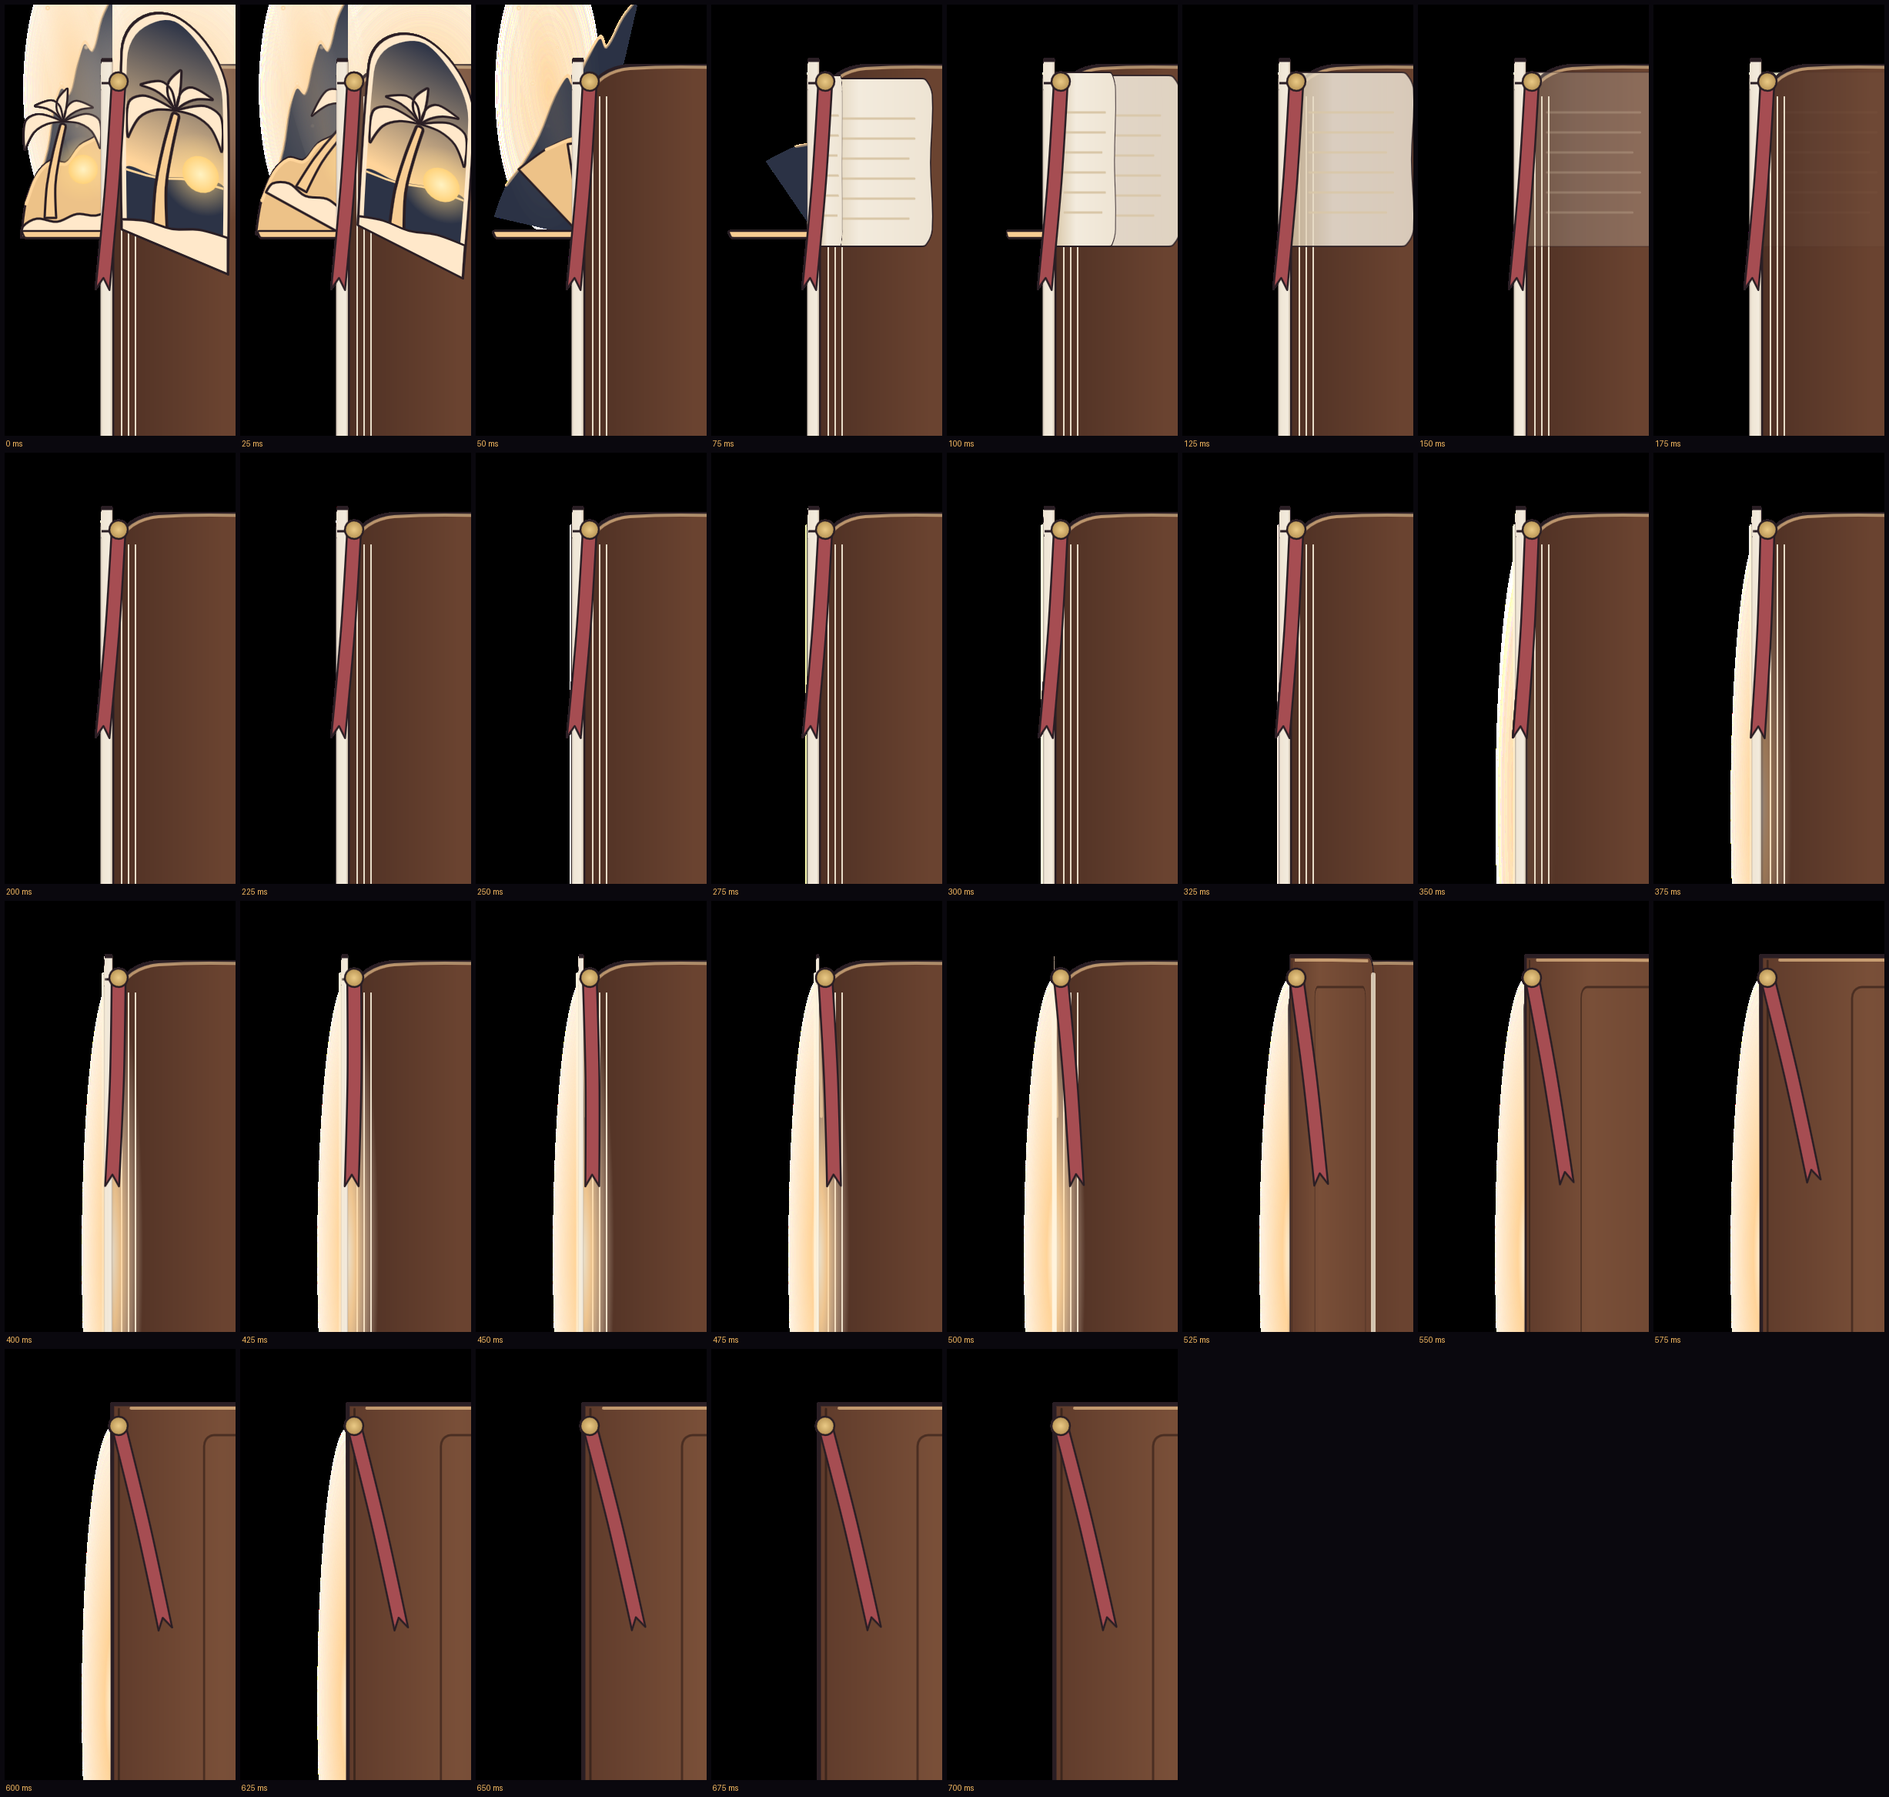
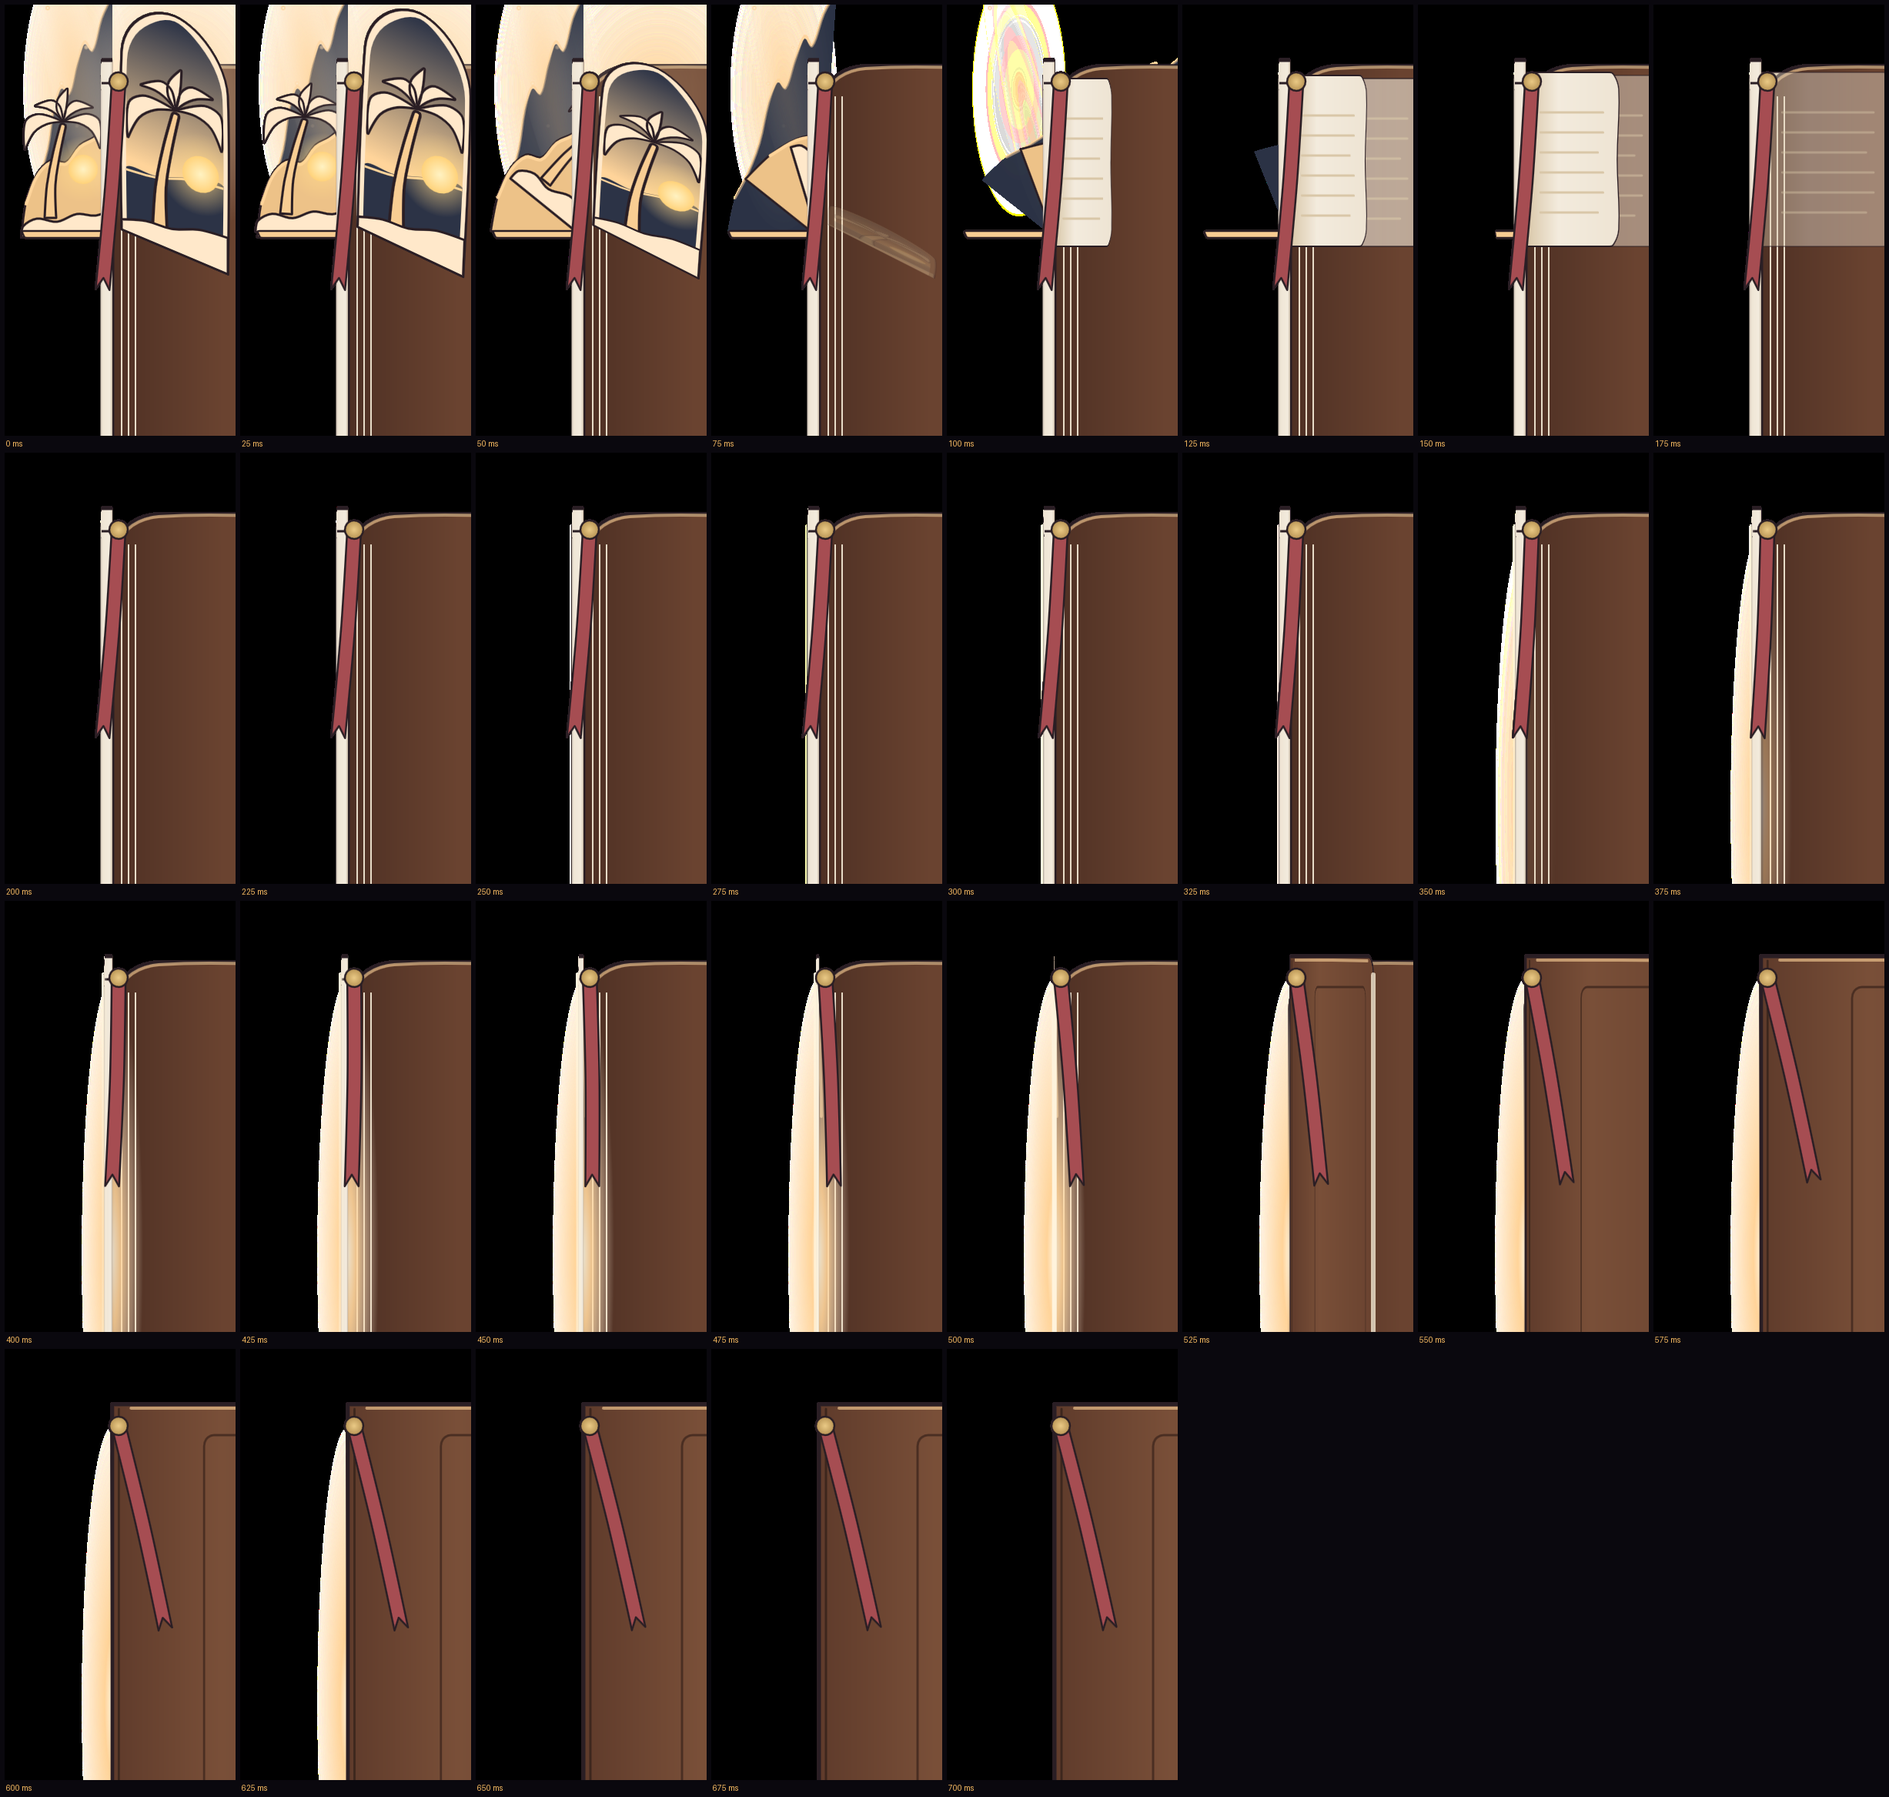
fix(rive): beat sheets evaluate Flutter Curves.easeOut Cubic(0,0,0.58,1) (final review)
The beats' `out` ease was easeOutCubic; the choreography ramps with
Curves.easeOut = Cubic(0, 0, 0.58, 1), now evaluated on its bezier via
ik_check.bezier_ease (open-sheet unfold at 1400 ms reads 0.895, the
test_journeys HANDOVER pin). Gates unchanged (24 ok + 5 recorded); the
strips and gates.txt are byte-identical. README counts corrected: wow3
20 gates + 2 info (was 21), journey row 24 ok + 5 recorded rows (was 29).

Changed region(s): [[0.1239, 0.0, 0.7742, 0.1542], [0.9291, 0.0308, 1.0, 0.1542], [0.8052, 0.0308, 0.8981, 0.1542]]

diff --git a/rive/tools/review_journey.py b/rive/tools/review_journey.py
@@ -16,7 +16,8 @@ unfold 1 with destBeach, and the jacket on the ribbon - over every scene's poste
 rest render, in the phone framing the app uses (the scene `Fit.cover`, the avatar and the journey
 `Fit.contain` at the bottom); the other families keep their columns (the rocket adds lift 0.08 and
 1). Plus `sheet.png`, `gates.txt`, and with `--beat` the open and close beats at the app's curves
-(`JourneyChoreography`, mirrored here) as sheets of 1:1 crops: `beat_open.png`, `beat_close.png`.
+(`JourneyChoreography`, mirrored here; every `out` ease is Flutter's `Curves.easeOut` =
+Cubic(0, 0, 0.58, 1), evaluated on its bezier) as sheets of 1:1 crops: `beat_open.png`, `beat_close.png`.
 
 Gates (one line each, `ok` or `FAIL`):
 - every number 0 draws nothing, and so does every staged number at 1 with no family shown;
@@ -56,6 +57,7 @@ sys.path.insert(0, os.path.dirname(__file__))
 import art_bible  # noqa: E402
 import gen_journeys  # noqa: E402
 import world_kit  # noqa: E402
+from ik_check import bezier_ease  # noqa: E402
 
 ROOT = Path(__file__).resolve().parents[2]
 PROJ = ROOT / "rive" / "journeys"
@@ -339,10 +341,11 @@ FALL_START_MS, CLOSE_MS, FOLD_LEN_MS = 200, 640, 200
 
 
 def _ease(t: float, kind: str) -> float:
-    """The Flutter curves the choreography uses: `out` easeOut, `io` easeInOutCubic, `in` easeInCubic."""
+    """The Flutter curves the choreography uses: `out` = `Curves.easeOut` = Cubic(0, 0, 0.58, 1),
+    evaluated on its bezier (the app's own curve, not easeOutCubic), `io` easeInOutCubic, `in` easeInCubic."""
     t = min(1.0, max(0.0, t))
     if kind == "out":
-        return 1 - (1 - t) ** 3
+        return bezier_ease(0.0, 0.0, 0.58, 1.0, t)
     if kind == "in":
         return t ** 3
     return 4 * t ** 3 if t < 0.5 else 1 - 4 * (1 - t) ** 3

diff --git a/rive/review/book-threshold/README.md b/rive/review/book-threshold/README.md
@@ -7,8 +7,8 @@ self-check for objective defects). The plan and the design:
 
 | Evidence | What it shows | Files | Self-check | Known limits |
 |---|---|---|---|---|
-| **Journey thresholds** (Tasks 4–6, contract v15) | `journey.riv` (78,077 B ≤ 160 KB): the pop-up book at closed medallion / edge-on / open stub / riffle / erected / jacket (path and portal 3 columns, rocket 5), composited over every scene's poster in the phone framing; the open and close beats sampled at 20–50 ms on the app's own curves | strips: [book](book_strip.png), [path](path_strip.png), [portal](portal_strip.png), [rocket](rocket_strip.png), [sheet](sheet.png); beats: [open](beat_open.png) (57 samples), [close](beat_close.png) (29); [gates](gates.txt) | All 29 gate lines `ok`, exit 0 (full text in gates.txt): nothing drawn at zero; family isolation (cover 14.9 %); the threshold band 91.1 % / 89.9 % covered at open 0 / 1; `open` moves the left band (11,649 px); `unfold` erects the vignette (30,865 px) with the riffle flicking in x 260-800 (35,934 px) and 0 hero px straying before its 0.45 start; the Near panel's emblem flat at 0.2 (0 px) and erected by 0.6 (82.1 %); every dest pair ≥ 1 % in the card's box (worst 21.45 %, campfire vs cafe); no snap at the grab handover (0.54 % visible — the shaft's fade tail, raw count printed); a dest on the closed cover lights only its foil glyph (867 px in, 0 out); the crack glow visible from open 0.03 (7,129 px), re-lit by the cool key; rocket gates unchanged; loop seam 0.00 %. Judgment pass (Task 6, no retune): the swing reads as rotation (edge-on glint, no mirrored face), the riffle reads as flicking pages, the 700-840 ms settle stays alive (glint decay, ribbon tail, gutter glow), the close reads flutter-before-fall | Portrait shows the left band + page face (the book is bust-scale and stands past the frame edge; the rest shows in landscape); a riffle page fades in at near-full projected width (the one beat compromise, flagged for the record); the emblem's frond tips kiss the hair silhouette's rightmost strand (~x 535), outside the face box; the no-snap gate's raw 2/255 count (3,597 px) is the shaft's last 1.7 % of fade. Pre-existing env failures on this tree, named by Task 6 and still flagged: `test_gen_foley.py::test_wind_bed_is_checked_in_and_fresh`, `test_review_face.py::test_strip_cell_is_labelled_after_the_crop` (pillow/numpy environment, not this work) |
-| **Wow #3 in the app** | The running macOS app in the living room at the pinned local sunset: the user types "Can we go to the beach? I want to see the sunset.", the scripted reply changes the background, and the book journey plays the full staging: the cover fades and grows in with the beach foil glyph lit in its medallion, cracks, swings around the spine (edge-on glint), the riffle flicks while the beach vignette erects out of the right page (hero card rising from its tilted sliver, righting as it grows, its flats cut to the paper), the avatar grabs the jacket from the ribbon and walks out, the book folds (flutter) and falls closed, the cut lands on the beach at sunset where the book opens again showing the LIVING-ROOM card in the room's light, the avatar walks in, hangs the jacket on the arrival book's ribbon; macOS `say` speaks the three sentences | [wow3.mp4](wow/wow3.mp4) (with sound), [wow3.gif](wow/wow3.gif), [beats](wow/wow3_beats.png), [gates](wow/wow3_gates.txt) | All 21 gates ok + 2 info (285 frames, none blank, 0 network): one journey, family `book`, beats pullBack/open/grab/exit/close/arriveOpen/enter/hang/arriveClose/vanish in order; camera wide 100 % after the pull-back; the avatar off screen only while clipped (0 of 100 not); the scene switched behind the closed book (first beach sample at arriveOpen); dusk 1.00 on the beach; the jacket gates all ok (grab < hang, one jacket at a time over 258 samples, in hand on both walks 99/99, 6+6 footfalls, cloth at each contact, left with the book); GIF 2.07 MB under budget. Journey starts 0.04 s after the send, lasts 9.71 s. Checklist from the plan's rulings, verified on the frames: the riffle pages narrow onto the stub and fade in (no full-width pops); the hero rises from its tilted-back sliver to full height, righting on the way (frames 153-157); the flats stay clipped to the paper (nothing strays); the vignette glows in the beach's gold while the room keeps its teal night, and the card swaps to the origin's glyph + light at the cut (the lamp card on the beach); the medallion's beach foil glyph is legible when the book appears; foley from the harness event log: paper 856 ms into `open` (hook 850), click 574 ms into `close` (hook 580), paper 473 ms into `arriveOpen` (hook 470) | The cut beat fell between two 33 ms samples (the preload was ready), so the first beach sample reads arriveOpen (the gate accepts cut or arriveOpen, as in m7); no camera cut in this run (the journey holds wide while the avatar speaks); the medallion glyph reads subtle at native brightness in the night room and was verified at a 2× boost; the MP4's sound is the `say` sentences muxed at their captions — the foley timings are verified from the event log, not by ear; `say` is not the app's voice |
+| **Journey thresholds** (Tasks 4–6, contract v15) | `journey.riv` (78,077 B ≤ 160 KB): the pop-up book at closed medallion / edge-on / open stub / riffle / erected / jacket (path and portal 3 columns, rocket 5), composited over every scene's poster in the phone framing; the open and close beats sampled at 20–50 ms on the app's own curves | strips: [book](book_strip.png), [path](path_strip.png), [portal](portal_strip.png), [rocket](rocket_strip.png), [sheet](sheet.png); beats: [open](beat_open.png) (57 samples), [close](beat_close.png) (29); [gates](gates.txt) | All 24 gate lines `ok` (+ 5 recorded crack-glow coverage rows), exit 0 (full text in gates.txt): nothing drawn at zero; family isolation (cover 14.9 %); the threshold band 91.1 % / 89.9 % covered at open 0 / 1; `open` moves the left band (11,649 px); `unfold` erects the vignette (30,865 px) with the riffle flicking in x 260-800 (35,934 px) and 0 hero px straying before its 0.45 start; the Near panel's emblem flat at 0.2 (0 px) and erected by 0.6 (82.1 %); every dest pair ≥ 1 % in the card's box (worst 21.45 %, campfire vs cafe); no snap at the grab handover (0.54 % visible — the shaft's fade tail, raw count printed); a dest on the closed cover lights only its foil glyph (867 px in, 0 out); the crack glow visible from open 0.03 (7,129 px), re-lit by the cool key; rocket gates unchanged; loop seam 0.00 %. Judgment pass (Task 6, no retune): the swing reads as rotation (edge-on glint, no mirrored face), the riffle reads as flicking pages, the 700-840 ms settle stays alive (glint decay, ribbon tail, gutter glow), the close reads flutter-before-fall | Portrait shows the left band + page face (the book is bust-scale and stands past the frame edge; the rest shows in landscape); a riffle page fades in at near-full projected width (the one beat compromise, flagged for the record); the emblem's frond tips kiss the hair silhouette's rightmost strand (~x 535), outside the face box; the no-snap gate's raw 2/255 count (3,597 px) is the shaft's last 1.7 % of fade. Pre-existing env failures on this tree, named by Task 6 and still flagged: `test_gen_foley.py::test_wind_bed_is_checked_in_and_fresh`, `test_review_face.py::test_strip_cell_is_labelled_after_the_crop` (pillow/numpy environment, not this work) |
+| **Wow #3 in the app** | The running macOS app in the living room at the pinned local sunset: the user types "Can we go to the beach? I want to see the sunset.", the scripted reply changes the background, and the book journey plays the full staging: the cover fades and grows in with the beach foil glyph lit in its medallion, cracks, swings around the spine (edge-on glint), the riffle flicks while the beach vignette erects out of the right page (hero card rising from its tilted sliver, righting as it grows, its flats cut to the paper), the avatar grabs the jacket from the ribbon and walks out, the book folds (flutter) and falls closed, the cut lands on the beach at sunset where the book opens again showing the LIVING-ROOM card in the room's light, the avatar walks in, hangs the jacket on the arrival book's ribbon; macOS `say` speaks the three sentences | [wow3.mp4](wow/wow3.mp4) (with sound), [wow3.gif](wow/wow3.gif), [beats](wow/wow3_beats.png), [gates](wow/wow3_gates.txt) | All 20 gates ok + 2 info (285 frames, none blank, 0 network): one journey, family `book`, beats pullBack/open/grab/exit/close/arriveOpen/enter/hang/arriveClose/vanish in order; camera wide 100 % after the pull-back; the avatar off screen only while clipped (0 of 100 not); the scene switched behind the closed book (first beach sample at arriveOpen); dusk 1.00 on the beach; the jacket gates all ok (grab < hang, one jacket at a time over 258 samples, in hand on both walks 99/99, 6+6 footfalls, cloth at each contact, left with the book); GIF 2.07 MB under budget. Journey starts 0.04 s after the send, lasts 9.71 s. Checklist from the plan's rulings, verified on the frames: the riffle pages narrow onto the stub and fade in (no full-width pops); the hero rises from its tilted-back sliver to full height, righting on the way (frames 153-157); the flats stay clipped to the paper (nothing strays); the vignette glows in the beach's gold while the room keeps its teal night, and the card swaps to the origin's glyph + light at the cut (the lamp card on the beach); the medallion's beach foil glyph is legible when the book appears; foley from the harness event log: paper 856 ms into `open` (hook 850), click 574 ms into `close` (hook 580), paper 473 ms into `arriveOpen` (hook 470) | The cut beat fell between two 33 ms samples (the preload was ready), so the first beach sample reads arriveOpen (the gate accepts cut or arriveOpen, as in m7); no camera cut in this run (the journey holds wide while the avatar speaks); the medallion glyph reads subtle at native brightness in the night room and was verified at a 2× boost; the MP4's sound is the `say` sentences muxed at their captions — the foley timings are verified from the event log, not by ear; `say` is not the app's voice |
 | **The four-family tour** | Four journeys in a row in the running app, no speech, at 10:00 local: living room → campfire (book: medallion with the campfire flame glyph, crack, swing, riffle, campfire card, jacket grab/hang on the ribbon), campfire → beach (path ferns), beach → deep space (rocket: hatch, lift-off, landing), deep space → living room (portal) | [tour.mp4](wow/tour.mp4), [tour.gif](wow/tour.gif), [beats](wow/tour_beats.png) (walk out / walk in per journey), [gates](wow/tour_gates.txt) | All 27 gates ok + 1 info (719 frames, none blank, 0 network): four journeys, each with its family (`book`, `path`, `rocket`, `portal`), beats in order, camera wide 100 %, the avatar off screen only while clipped (0 of 100 / 84 / 164 / 125), the switch behind the closed threshold; every threshold family played; GIF 3.59 MB under budget. Checklist: the book leg's medallion foil glyph (the campfire flame) is legible when the book appears, in the morning-lit room at a 1.8× boost | Same cut-between-samples allowance (three of the four switches read arriveOpen, the rocket's reads cut); the other 86 directed journeys share these four families (planner unit tests) but were not captured; the medallion glyph check used the same boost caveat as wow3 |
 
 ## How to regenerate
